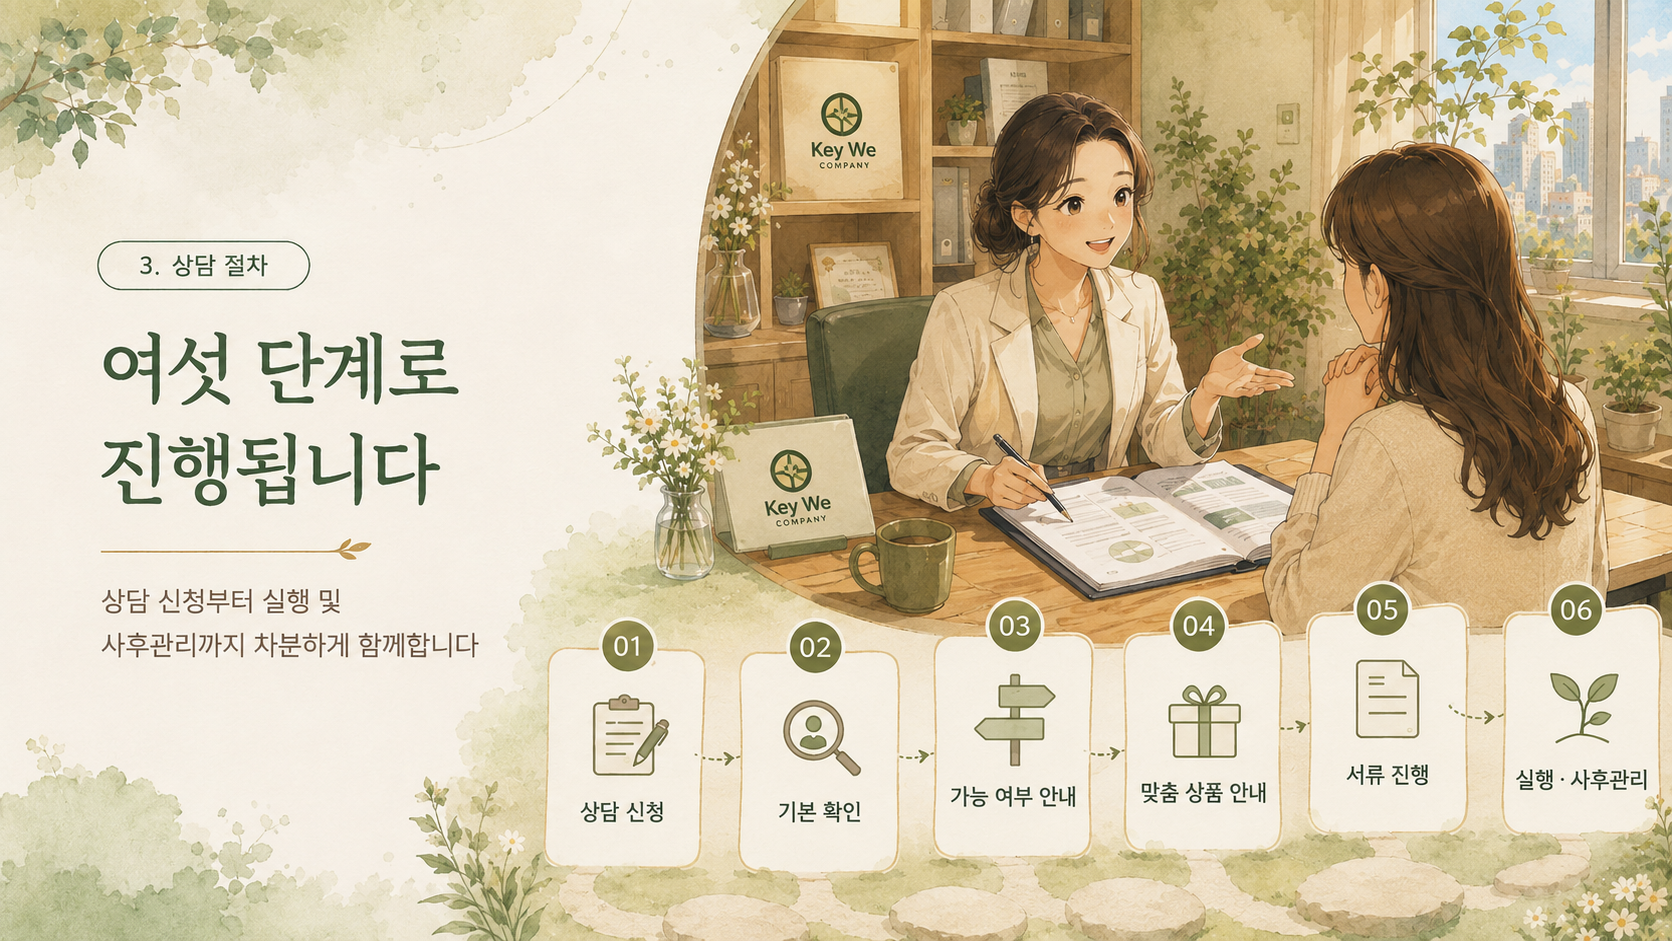
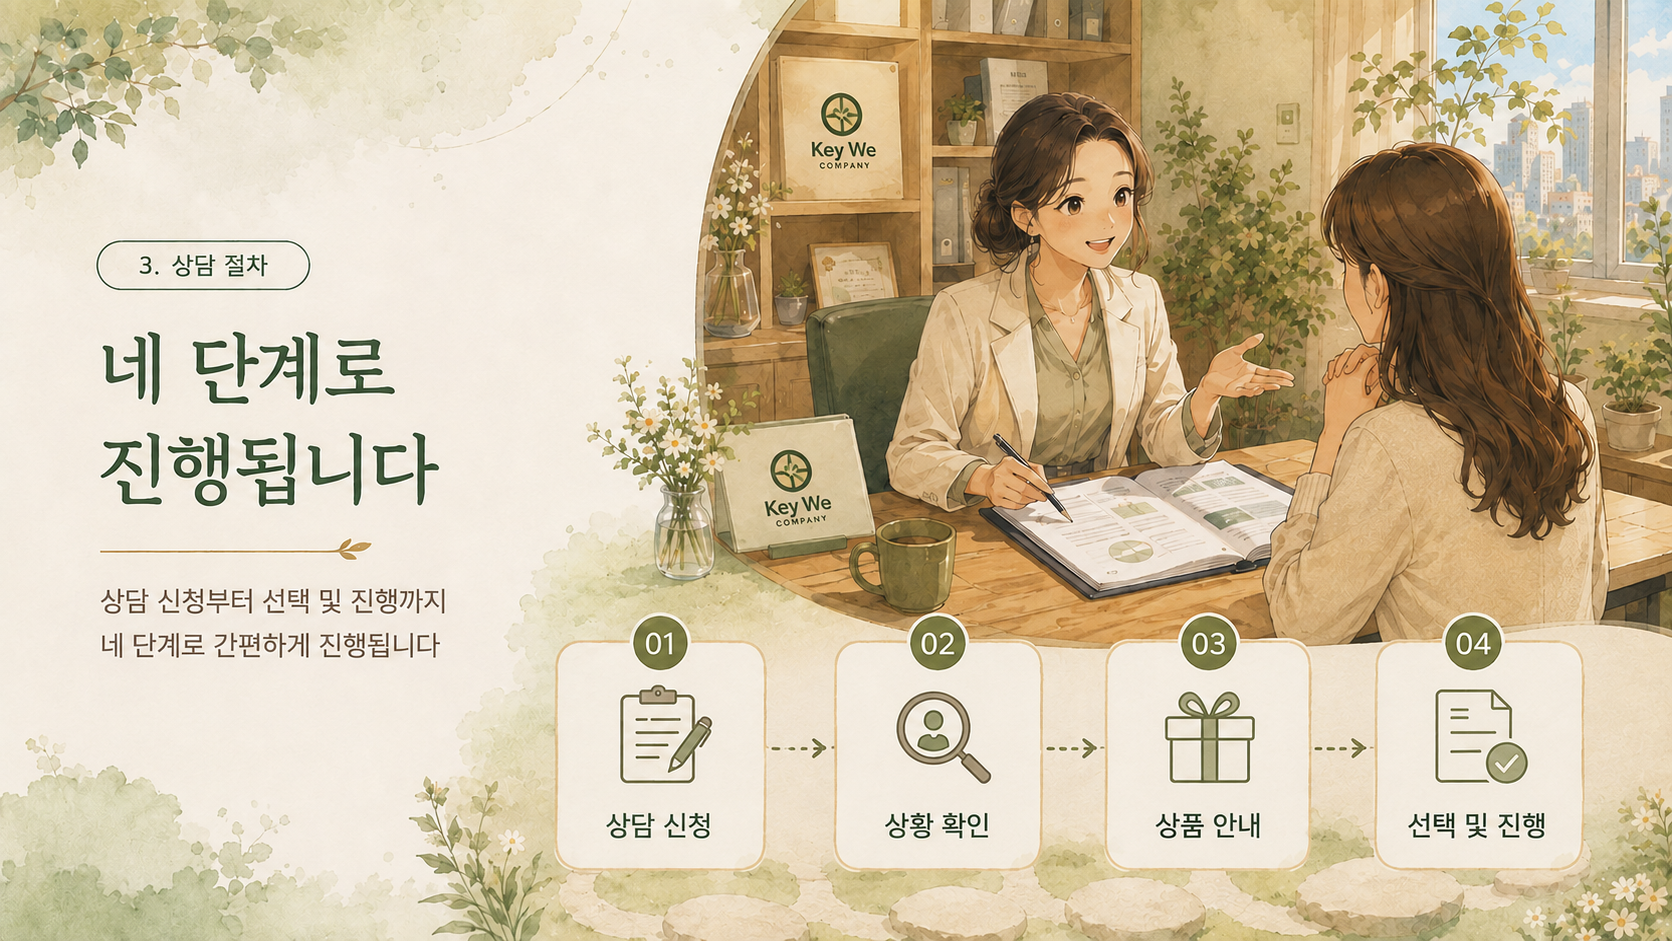
Sharpen hero copy, simplify trust strip and process to 4 steps
- Hero: punchier H1/subcopy for a faster read; trust badges collapsed
  into a single-line strip (dot-separated, smaller) instead of three
  bulky pill badges.
- Fix the inline highlighted-phrase paragraphs in process.tsx and
  products-carousel.tsx that misaligned when wrapping across lines —
  the padded/rounded background on a long inline <strong> breaks per
  line; switched to plain bold+color emphasis.
- Process: reduce from 6 steps to the 4-step flow, bump mobile type
  size for legibility.
- Consult section: warmer, more direct heading and supporting copy.
- Picks up the user's updated menu3.png.

diff --git a/components/sections/process.tsx b/components/sections/process.tsx
@@ -1,43 +1,26 @@
 import Image from "next/image";
-import {
-  PhoneCall,
-  MessagesSquare,
-  FileSearch,
-  Search,
-  ClipboardCheck,
-  CheckCircle2,
-} from "lucide-react";
+import { PhoneCall, Search, FileSearch, CheckCircle2 } from "lucide-react";
 
 const steps = [
   {
     icon: PhoneCall,
     title: "상담 신청",
-    description: "전화·홈페이지 등으로 간편하게 상담을 신청합니다.",
-  },
-  {
-    icon: MessagesSquare,
-    title: "기본 상담",
-    description: "전문 상담사가 고객님의 상황과 필요 자금을 확인합니다.",
-  },
-  {
-    icon: FileSearch,
-    title: "필요서류 안내",
-    description: "대출 심사에 필요한 서류를 안내하고 준비를 도와드립니다.",
+    description: "이름과 연락처를 남겨주세요.",
   },
   {
     icon: Search,
-    title: "제휴 대부업체 심사",
-    description: "저희가 아닌 제휴 대부업체가 대출 가능 여부와 조건을 직접 심사합니다.",
+    title: "상황 확인",
+    description: "필요 자금과 현재 조건을 확인합니다.",
   },
   {
-    icon: ClipboardCheck,
-    title: "조건 안내",
-    description: "심사 결과와 한도·금리 등 대출 조건을 상세히 안내합니다.",
+    icon: FileSearch,
+    title: "상품 안내",
+    description: "취급 가능한 등록 대부업체의 상품을 안내합니다.",
   },
   {
     icon: CheckCircle2,
-    title: "고객 동의 후 대출 실행",
-    description: "고객님이 조건에 동의하면 제휴 대부업체가 대출을 실행합니다.",
+    title: "선택 및 진행",
+    description: "조건을 충분히 확인한 후 고객님이 직접 결정합니다.",
   },
 ];
 
@@ -46,10 +29,10 @@ export function Process() {
     <section id="process" className="mx-auto max-w-[860px] scroll-mt-20 px-5 py-14">
       <span className="text-sm font-semibold text-primary">상담 절차</span>
       <h2 className="mt-3 text-balance font-heading text-2xl font-bold text-foreground sm:text-3xl">
-        상담 진행 6단계
+        상담 진행 4단계
       </h2>
       <p className="mt-3 max-w-2xl leading-relaxed text-foreground/70">
-        <strong className="rounded bg-primary/10 px-1 py-0.5 font-bold text-primary">
+        <strong className="font-bold text-primary">
           키위대부중개가 대출을 직접 실행하는 것이 아니라, 제휴 대부업체가
           심사하고 실행합니다.
         </strong>{" "}
@@ -69,16 +52,16 @@ export function Process() {
 
       <ol className="-mx-5 mt-8 divide-y divide-border/60 overflow-hidden border-y border-border/60 bg-card md:mx-0 md:rounded-xl md:border-x">
         {steps.map((step, index) => (
-          <li key={step.title} className="flex items-center gap-3.5 px-5 py-3.5 sm:gap-4 sm:px-6 sm:py-4">
-            <span className="flex size-8 shrink-0 items-center justify-center rounded-full bg-secondary text-sm font-bold text-primary">
+          <li key={step.title} className="flex items-center gap-4 px-5 py-4 sm:px-6 sm:py-5">
+            <span className="flex size-9 shrink-0 items-center justify-center rounded-full bg-secondary text-base font-bold text-primary">
               {index + 1}
             </span>
-            <step.icon className="size-5 shrink-0 text-primary" strokeWidth={1.75} aria-hidden="true" />
+            <step.icon className="size-6 shrink-0 text-primary" strokeWidth={1.75} aria-hidden="true" />
             <div className="min-w-0">
-              <h3 className="font-heading text-sm font-bold text-foreground sm:text-base">
+              <h3 className="font-heading text-base font-bold text-foreground sm:text-lg">
                 {step.title}
               </h3>
-              <p className="mt-0.5 text-xs leading-snug text-foreground/60 sm:text-sm">
+              <p className="mt-0.5 text-sm leading-snug text-foreground/60">
                 {step.description}
               </p>
             </div>

diff --git a/components/sections/trust-badges.tsx b/components/sections/trust-badges.tsx
@@ -2,22 +2,25 @@ import { ShieldCheck, HandCoins, Gift } from "lucide-react";
 
 const badges = [
   { icon: ShieldCheck, label: "정식 등록 대부중개업체" },
-  { icon: HandCoins, label: "고객 중개수수료 없음" },
+  { icon: HandCoins, label: "고객 중개수수료 0원" },
   { icon: Gift, label: "상담 신청 무료" },
 ];
 
 export function TrustBadges() {
   return (
     <section aria-label="신뢰 정보" className="mx-auto max-w-[860px] px-5 pb-10">
-      <ul className="flex flex-col gap-3 sm:flex-row sm:justify-center sm:gap-8">
-        {badges.map((badge) => (
-          <li key={badge.label} className="flex items-center justify-center gap-2.5">
-            <span className="flex size-9 shrink-0 items-center justify-center rounded-full bg-secondary text-primary">
-              <badge.icon className="size-4.5" strokeWidth={1.75} />
-            </span>
-            <span className="font-sans text-sm font-bold text-foreground/80">
+      <ul className="flex flex-wrap items-center justify-center gap-x-2 gap-y-1.5 text-center">
+        {badges.map((badge, i) => (
+          <li key={badge.label} className="flex items-center gap-3">
+            <span className="flex items-center gap-1.5 text-sm font-bold text-foreground/80">
+              <badge.icon className="size-4 text-primary" strokeWidth={1.75} aria-hidden="true" />
               {badge.label}
             </span>
+            {i < badges.length - 1 && (
+              <span className="text-foreground/30" aria-hidden="true">
+                ·
+              </span>
+            )}
           </li>
         ))}
       </ul>

diff --git a/components/sections/hero.tsx b/components/sections/hero.tsx
@@ -30,12 +30,12 @@ export function Hero() {
         </BorderBeamPanel>
 
         <div className="mx-auto mt-8 max-w-xl text-center">
-          <h1 className="text-balance font-heading text-2xl font-bold text-foreground sm:text-3xl">
-            상황에 맞는 대출, 키위대부중개가 함께 찾아드립니다
+          <h1 className="text-balance font-heading text-3xl font-bold text-foreground sm:text-4xl">
+            상황이 다르면, 대출의 답도 달라야 합니다
           </h1>
           <p className="mt-3 text-balance leading-relaxed text-foreground/70">
-            직접 대출을 실행하지 않는 정식 등록 대부중개업체입니다. 고객님의
-            상황을 확인한 후 취급 가능한 등록 대부업체의 상품을 안내합니다.
+            고객님의 현재 상황을 확인하고 취급 가능한 등록 대부업체의
+            상품을 안내합니다.
           </p>
         </div>
 

diff --git a/components/sections/consult-section.tsx b/components/sections/consult-section.tsx
@@ -9,8 +9,13 @@ export function ConsultSection() {
       <div className="mx-auto max-w-xl text-center">
         <span className="text-sm font-semibold text-primary">무료 상담 신청</span>
         <h2 className="mt-3 text-balance font-heading text-2xl font-bold text-foreground sm:text-3xl">
-          지금 바로 무료로 상담받아 보세요
+          혼자 고민하지 마세요. 먼저 상황부터 확인해드립니다.
         </h2>
+        <p className="mt-3 leading-relaxed text-foreground/70">
+          간단한 정보를 남겨주시면 담당자가 고객님의 상황을 확인한 후
+          상담을 도와드립니다. 상담 신청은 무료이며 고객에게
+          대부중개수수료를 요구하지 않습니다.
+        </p>
       </div>
       <div className="mx-auto max-w-xl">
         <ConsultForm />

diff --git a/components/sections/products-carousel.tsx b/components/sections/products-carousel.tsx
@@ -88,7 +88,7 @@ export function ProductsCarousel() {
         고객님 상황에 맞는 12가지 대출상품
       </h2>
       <p className="mt-3 max-w-2xl leading-relaxed text-foreground/70">
-        <strong className="rounded bg-primary/10 px-1 py-0.5 font-bold text-primary">
+        <strong className="font-bold text-primary">
           키위대부중개는 직접 대출을 실행하지 않는 대부중개업체입니다.
         </strong>{" "}
         고객의 필요금액, 자금 목적, 직업·소득, 신용상태, 보유 담보 등을
